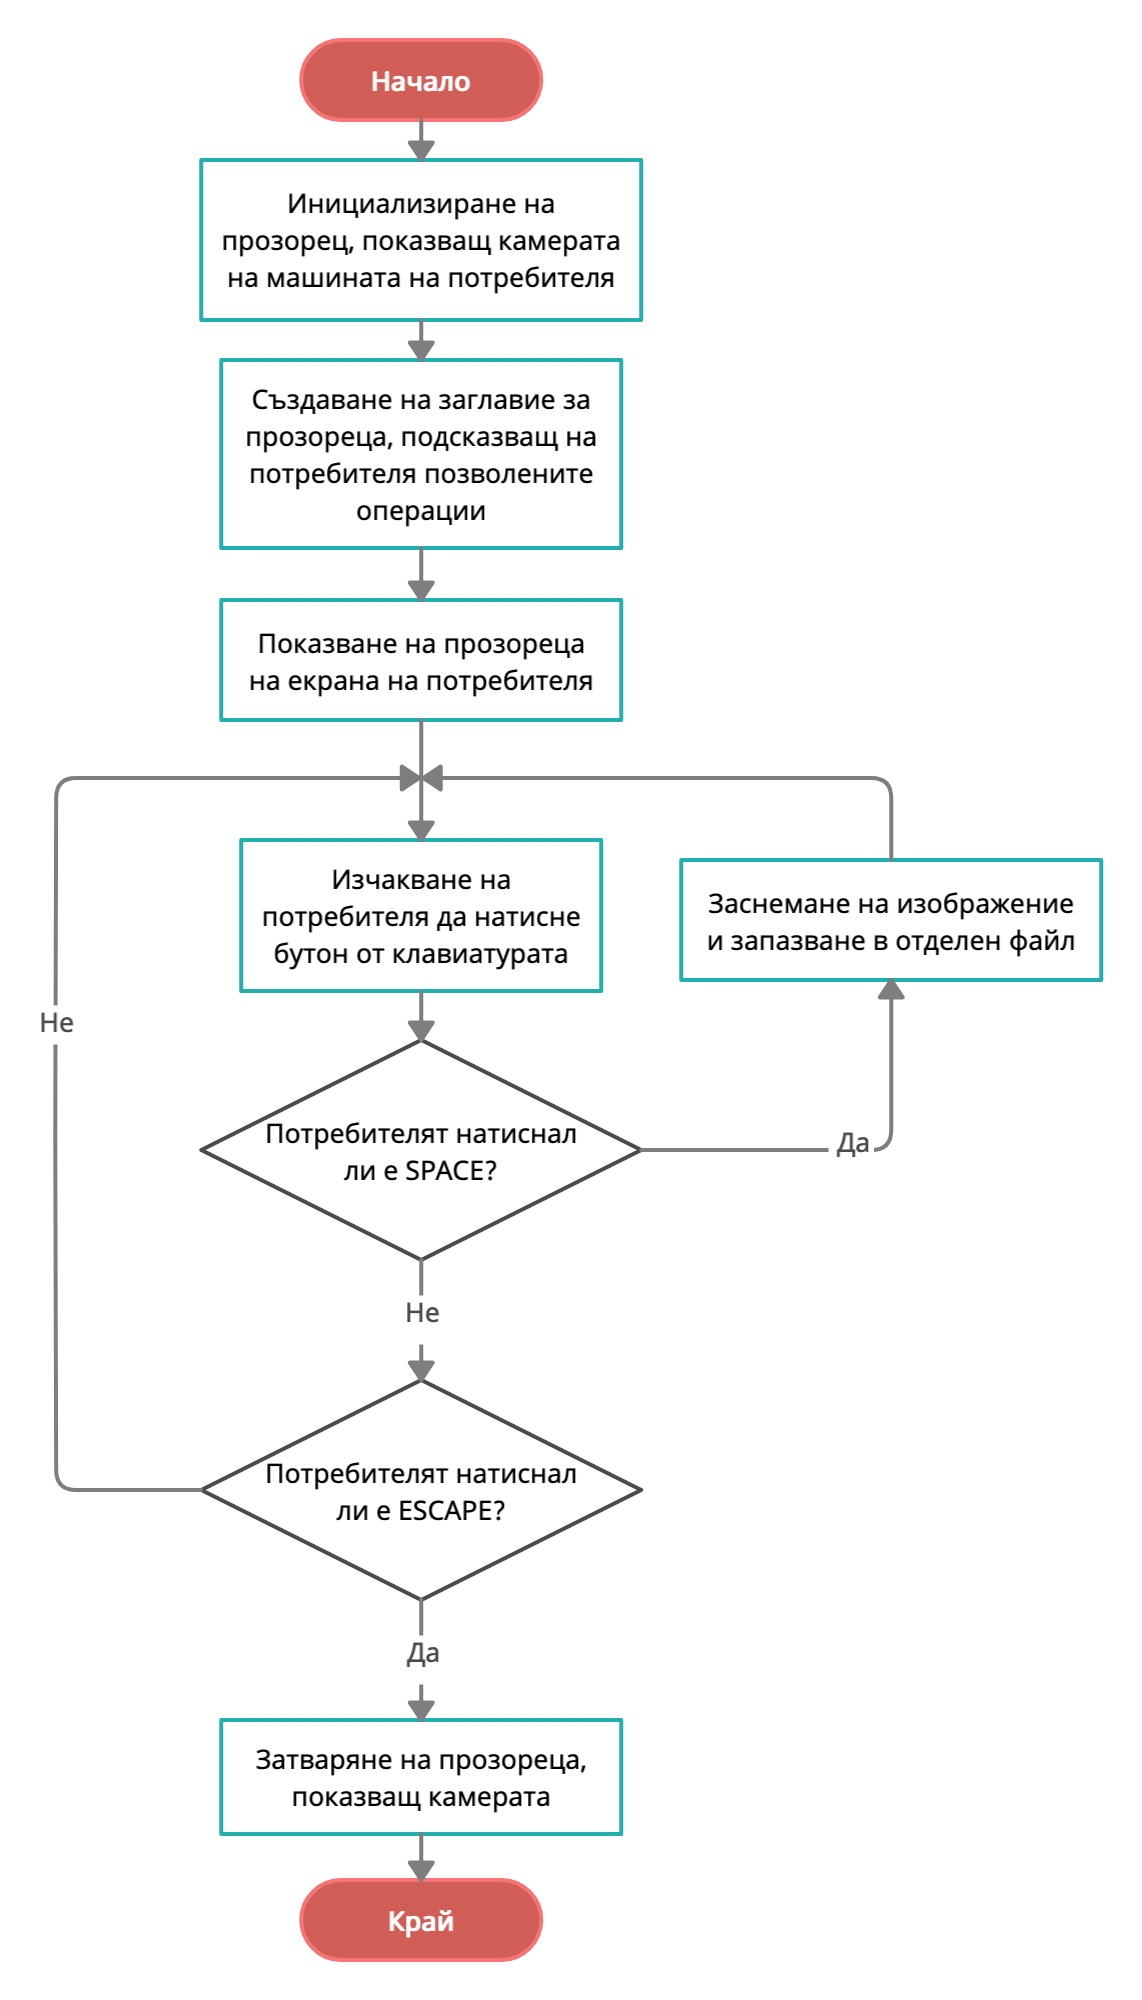
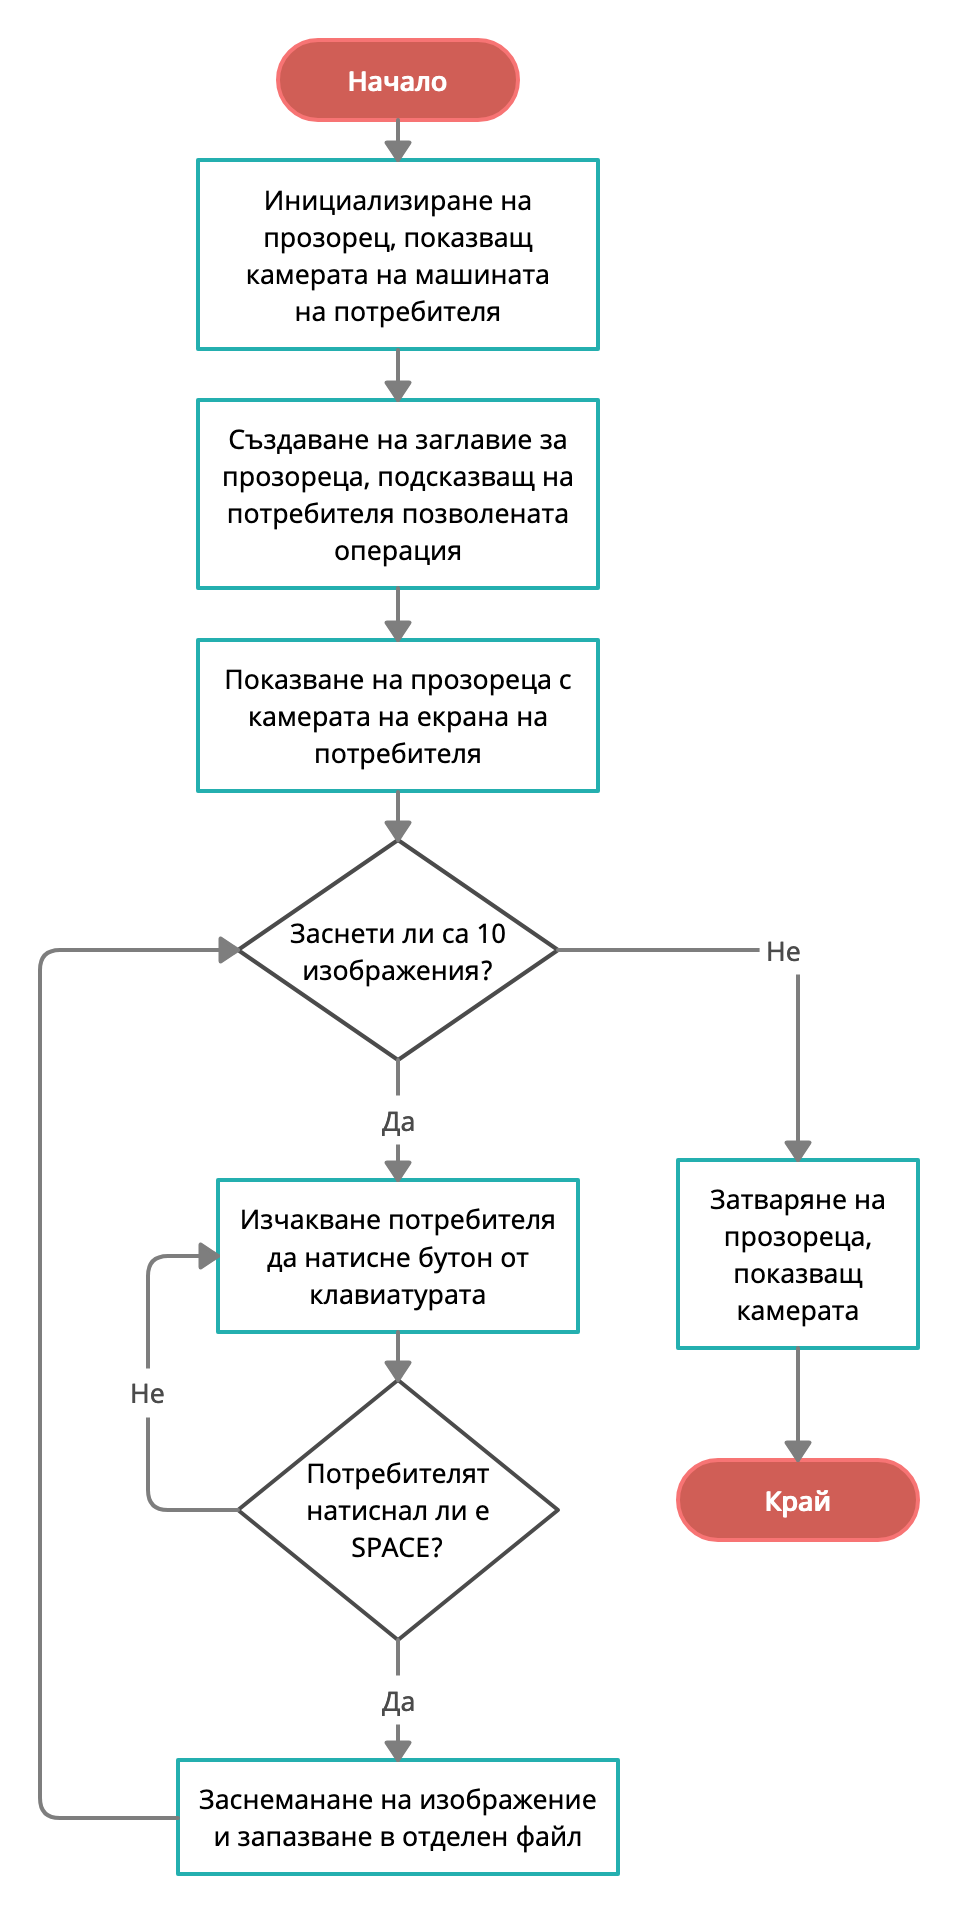
[Update] Code refactoring

diff --git a/src/iot_system/face_verification/face_extract_utils.py b/src/iot_system/face_verification/face_extract_utils.py
@@ -7,6 +7,7 @@ from os import listdir
 from numpy import asarray
 from os.path import isdir
 from requests.auth import HTTPDigestAuth
+from mtcnn.mtcnn import MTCNN
 
 IMAGE_WIDTH = 160
 IMAGE_HEIGHT = 160
@@ -31,19 +32,22 @@ def get_pixels(filename):
 	return pixels
 
 # extract a single face from a given image
-def extract_single_face(filename, classifier, required_size=REQUIRED_SIZE):
+def extract_single_face(filename, detector, required_size=REQUIRED_SIZE):
 	# open the image and get the pixels
 	pixels = get_pixels(filename)
 
 	# detect faces in the image
-	face_box = classifier.detectMultiScale(pixels)
+	face_box = detector.detect_faces(pixels)
 
 	# check if faces are detected
 	if len(face_box) == 0:
 		return False
 
 	# get beginning coordinates of face
-	x1, y1, width, height = face_box[0]
+	x1, y1, width, height = face_box[0]['box']
+
+	# error handling
+	x1, y1 = abs(x1), abs(y1)
 
 	# get end coordinates of face
 	x2, y2 = x1 + width, y1 + height
@@ -58,12 +62,12 @@ def extract_single_face(filename, classifier, required_size=REQUIRED_SIZE):
 	return asarray(image)
 
 # extract a single face from a given image
-def extract_multiple_faces(filename, classifier, required_size=REQUIRED_SIZE):
+def extract_multiple_faces(filename, detector, required_size=REQUIRED_SIZE):
 	# open the image and get the pixels
 	pixels = get_pixels(filename)
 
 	# detect faces in the image
-	faces_boxes = classifier.detectMultiScale(pixels)
+	faces_boxes = detector.detect_faces(pixels)
 
 	# check if faces are detected
 	if len(faces_boxes) == 0:
@@ -73,7 +77,7 @@ def extract_multiple_faces(filename, classifier, required_size=REQUIRED_SIZE):
 	# extract every face from the image
 	for face_box in faces_boxes:
 		# get beginning coordinates of face
-		x1, y1, width, height = face_box
+		x1, y1, width, height = face_box['box']
 
 		# get end coordinates of face
 		x2, y2 = x1 + width, y1 + height
@@ -91,7 +95,7 @@ def extract_multiple_faces(filename, classifier, required_size=REQUIRED_SIZE):
 	return faces
 
 # load the faces from a directory
-def load_faces(directory, classifier):
+def load_faces(directory, detector):
 	faces = list()
 
 	# iterate through all files
@@ -104,7 +108,7 @@ def load_faces(directory, classifier):
 		image_path = directory + filename
 
 		# extract face
-		face = extract_single_face(image_path, classifier)
+		face = extract_single_face(image_path, detector)
 
 		# check is face is detected
 		if face is False:
@@ -117,7 +121,7 @@ def load_faces(directory, classifier):
 	return faces
 
 # load the whole dataset
-def load_dataset(directory, classifier):
+def load_dataset(directory, detector):
 	x, y = list(), list()
 
 	# iterate through all subdirectories in the dataset aka all the people in the dataset
@@ -130,7 +134,7 @@ def load_dataset(directory, classifier):
 			continue
 
 		# load all the faces for that person
-		faces = load_faces(subdir_path, classifier)
+		faces = load_faces(subdir_path, detector)
 
 		# create labels for all the faces of that person
 		labels = [subdir for _ in range(len(faces))]

diff --git a/src/iot_system/main.py b/src/iot_system/main.py
@@ -6,12 +6,15 @@ import time
 
 from json import loads
 from numpy import load
+from mtcnn.mtcnn import MTCNN
 from cv2 import CascadeClassifier
 from keras_vggface.vggface import VGGFace
 
 # project imports
 from camera_detection.test import take_images_and_recognize
 from door_lock_controller.lock_control import lock_door, unlock_door
+
+from face_verification.recognize import recognize_faces
 
 # bosch iot suite constants
 TENANT_ID = "ta5c5ad439fe14b32af99092f74e594eb_hub"
@@ -96,16 +99,54 @@ if __name__ == "__main__":
 	# initialize cascade classifier
 	classifier = CascadeClassifier(CASCADE_CLASSIFIER_FILE)
 
+	detector = MTCNN()
+
 	# initialize vggface model
 	model = VGGFace(model=MODEL_NAME, include_top=False, input_shape=(160, 160, 3), pooling="avg")
 
+	# filename = "./test/camera_images/image_3.jpg"
+	# filename2 = "./face_verification/exam/exam_gabi_i_kompaniq.jpg"
+
+	filenames = [
+		"./face_verification/exam/exam_balls.jpg",
+		"./face_verification/exam/exam_dog.jpg",
+		"./face_verification/exam/exam_gabi_i_cveti.jpg",
+		"./face_verification/exam/exam_gabi_i_kompaniq.jpg",
+		"./face_verification/exam/exam_gabi.jpg",
+		"./face_verification/exam/exam_gabi1.jpg",
+		"./face_verification/exam/exam_gabi2.jpg",
+		"./face_verification/exam/exam_ogi_hacktues.jpg",
+		"./face_verification/exam/exam_ogi_i_gabi.jpg",
+		"./face_verification/exam/exam_ogi_i_gabi2.jpg",
+		"./face_verification/exam/exam_ogi_i_plamen.jpg",
+		"./face_verification/exam/exam_ogi.jpg",
+		"./face_verification/exam/exam_plamen_i_tedi.jpg",
+		"./face_verification/exam/exam_plamen.jpg",
+		"./face_verification/exam/exam_random1.jpg",
+		"./face_verification/exam/exam_shefa.jpg",
+		"./face_verification/exam/exam_tedi.jpg",
+		"./test/camera_images/image_0.jpg",
+		"./test/camera_images/image_1.jpg",
+		"./test/camera_images/image_2.jpg",
+		"./test/camera_images/image_3.jpg",
+		"./test/camera_images/image_4.jpg"
+	]
+
+	for filename in filenames:
+
+		print(filename)
+		# recognize faces
+		names = recognize_faces(filename, trainX, trainY, detector, model)
+
+		print(names)
+
 	# initialize mqqt client
-	client = mqtt.Client("test", None, None, mqtt.MQTTv311)
-	client.on_connect = client_on_connect
-	client.on_message = client_on_message
+	# client = mqtt.Client("test", None, None, mqtt.MQTTv311)
+	# client.on_connect = client_on_connect
+	# client.on_message = client_on_message
 
-	# connect
-	client.connect(RASPBERRY_IP, 1883, 60)
+	# # connect
+	# client.connect(RASPBERRY_IP, 1883, 60)
 
-	# loop forever
-	client.loop_forever()
+	# # loop forever
+	# client.loop_forever()

diff --git a/src/iot_system/face_verification/candidate_face_check.py b/src/iot_system/face_verification/candidate_face_check.py
@@ -1,7 +1,7 @@
 from scipy.spatial.distance import cosine
 
 # determine if a candidate face is a match for a known face
-def check_candidate_faces(known_embeddings, known_labels, candidate_embeddings, thresh=0.5):
+def check_candidate_faces(known_embeddings, known_labels, candidate_embeddings, thresh=0.3):
 
 	# list for storing guessed faces
 	faces = list()
@@ -10,7 +10,6 @@ def check_candidate_faces(known_embeddings, known_labels, candidate_embeddings, 
 		# reset values
 		# i -> counts all known embeddings
 		# passed -> counts all passed embeddings
-		# label -> name of candidate ('Unknown' by default)
 		i = 0
 		passed = 0
 
@@ -28,6 +27,7 @@ def check_candidate_faces(known_embeddings, known_labels, candidate_embeddings, 
 
 			i += 1
 
+		print(guesses)
 		max_passed = 0
 		# key -> label
 		# value -> times passed
@@ -36,10 +36,10 @@ def check_candidate_faces(known_embeddings, known_labels, candidate_embeddings, 
 				label = key
 				max_passed = value
 
-		if max_passed >= 20 and label not in faces:
+		if max_passed >= 5:
 			faces.append(label)
 
 	if not faces:
-		faces.append("Unknown")
-
-	return faces
+		return "Unknown"
+	else:
+		return faces

diff --git a/src/iot_system/face_verification/train.py b/src/iot_system/face_verification/train.py
@@ -1,5 +1,5 @@
 # library imports
-from cv2 import CascadeClassifier
+from mtcnn.mtcnn import MTCNN
 from keras_vggface.vggface import VGGFace
 from numpy import asarray, savez_compressed
 
@@ -11,7 +11,6 @@ from face_embedding_utils import get_face_embedding
 MODEL_NAME = "vgg16"
 DATASET_FOLDER = "./dataset/"
 EMBEDDING_FILE = "../models/embeddings.npz"
-CASCADE_CLASSIFIER_FILE = "../models/haarcascade_frontalface_default.xml"
 
 def save_embeddings(trainX, trainY):
 	newTrainX = list()
@@ -28,13 +27,13 @@ def save_embeddings(trainX, trainY):
 	newTrainX = asarray(newTrainX)
 
 	# save embeddings and labels to one npz compressed file
-	savez_compressed(EMBEDDING_FILE, newTrainX, trainY)
+	savez_compressed(EMBEDDING_FILE, trainX=newTrainX, trainY=trainY)
 
-# initialize cascade classifier
-classifier = CascadeClassifier(CASCADE_CLASSIFIER_FILE)
+# initialize the mtcnn detector
+detector = MTCNN()
 
 # load training dataset
-trainX, trainY = load_dataset(DATASET_FOLDER, classifier)
+trainX, trainY = load_dataset(DATASET_FOLDER, detector)
 
 # save embeddings
-save_embeddings(trainX=trainX, trainY=trainY)
+save_embeddings(trainX, trainY)

diff --git a/src/iot_system/face_verification/recognize.py b/src/iot_system/face_verification/recognize.py
@@ -15,11 +15,11 @@ def recognize_faces(filename, trainX, trainY, classifier, model):
 	# extract faces of all candidates
 	candidate_faces = extract_multiple_faces(filename, classifier)
 
-	print("1", end=' ')
-	print("--- %s seconds ---" % (time.time() - start_time))
+	# print("1", end=' ')
+	# print("--- %s seconds ---" % (time.time() - start_time))
 
 	if not candidate_faces:
-		return ['No faces detected']
+		return 'No faces detected'
 
 	# get face embeddings of all candidates
 	candidate_embeddings = list()
@@ -30,13 +30,13 @@ def recognize_faces(filename, trainX, trainY, classifier, model):
 		# insert face embedding
 		candidate_embeddings.append(candidate_face_embedding)
 
-	print("2", end=' ')
-	print("--- %s seconds ---" % (time.time() - start_time))
+	# print("2", end=' ')
+	# print("--- %s seconds ---" % (time.time() - start_time))
 
 	# check faces for all candidates
 	names = check_candidate_faces(trainX, trainY, candidate_embeddings)
 
-	print("3", end=' ')
-	print("--- %s seconds ---" % (time.time() - start_time))
+	# print("3", end=' ')
+	# print("--- %s seconds ---" % (time.time() - start_time))
 
 	return names

diff --git a/src/iot_system/face_verification/face_embedding_utils.py b/src/iot_system/face_verification/face_embedding_utils.py
@@ -1,6 +1,7 @@
 # library imports
 from numpy import expand_dims
 from keras_vggface.vggface import VGGFace
+from keras_vggface.utils import preprocess_input
 
 # extract faces and calculate face embeddings for a list of photo files
 def get_face_embedding(face_pixels, model):
@@ -10,6 +11,9 @@ def get_face_embedding(face_pixels, model):
 	# added a 4th dimension so only one face embedding is predicted
 	# expected shape from the model is (1, 224, 224, 3)
 	samples = expand_dims(face_pixels, axis=0)
+
+	# prepare the face for the model, e.g. center pixels
+	samples = preprocess_input(samples, version=2)
 
 	# perform prediction
 	prediction = model.predict(samples)

diff --git a/src/iot_system/face_verification/dataset_loader.py b/src/iot_system/face_verification/dataset_loader.py
@@ -71,7 +71,7 @@ def create_images(full_path):
 	# init image count
 	image_count = 0
 
-	while True:
+	while image_count < 10:
 		# read camera
 		# ret -> True or False, depends on whether the read is successful
 		# frame -> the frame that is read
@@ -101,10 +101,12 @@ def create_images(full_path):
 			print("Image " + str(image_count) + " written!")
 
 		# escape
-		elif key % 256 == 27:
-			print("Finishing")
-			cv2.destroyAllWindows()
-			break
+		# elif key % 256 == 27:
+			# print("Finishing")
+			# break
+
+	# destroy camera window
+	cv2.destroyAllWindows()
 
 if __name__ == '__main__':
 	# call get name without the first keyword argument (loader.py)
